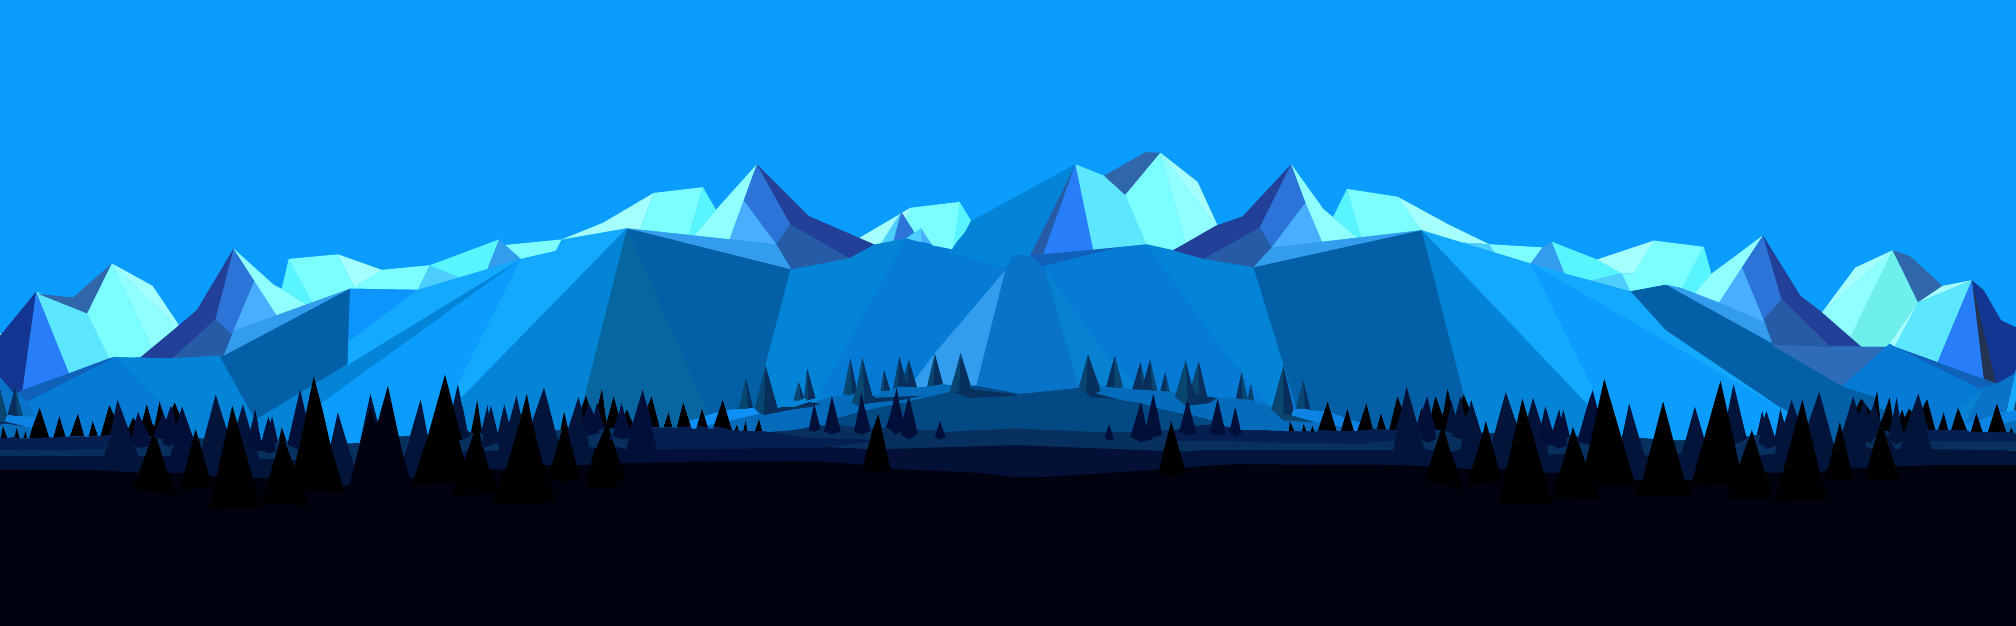
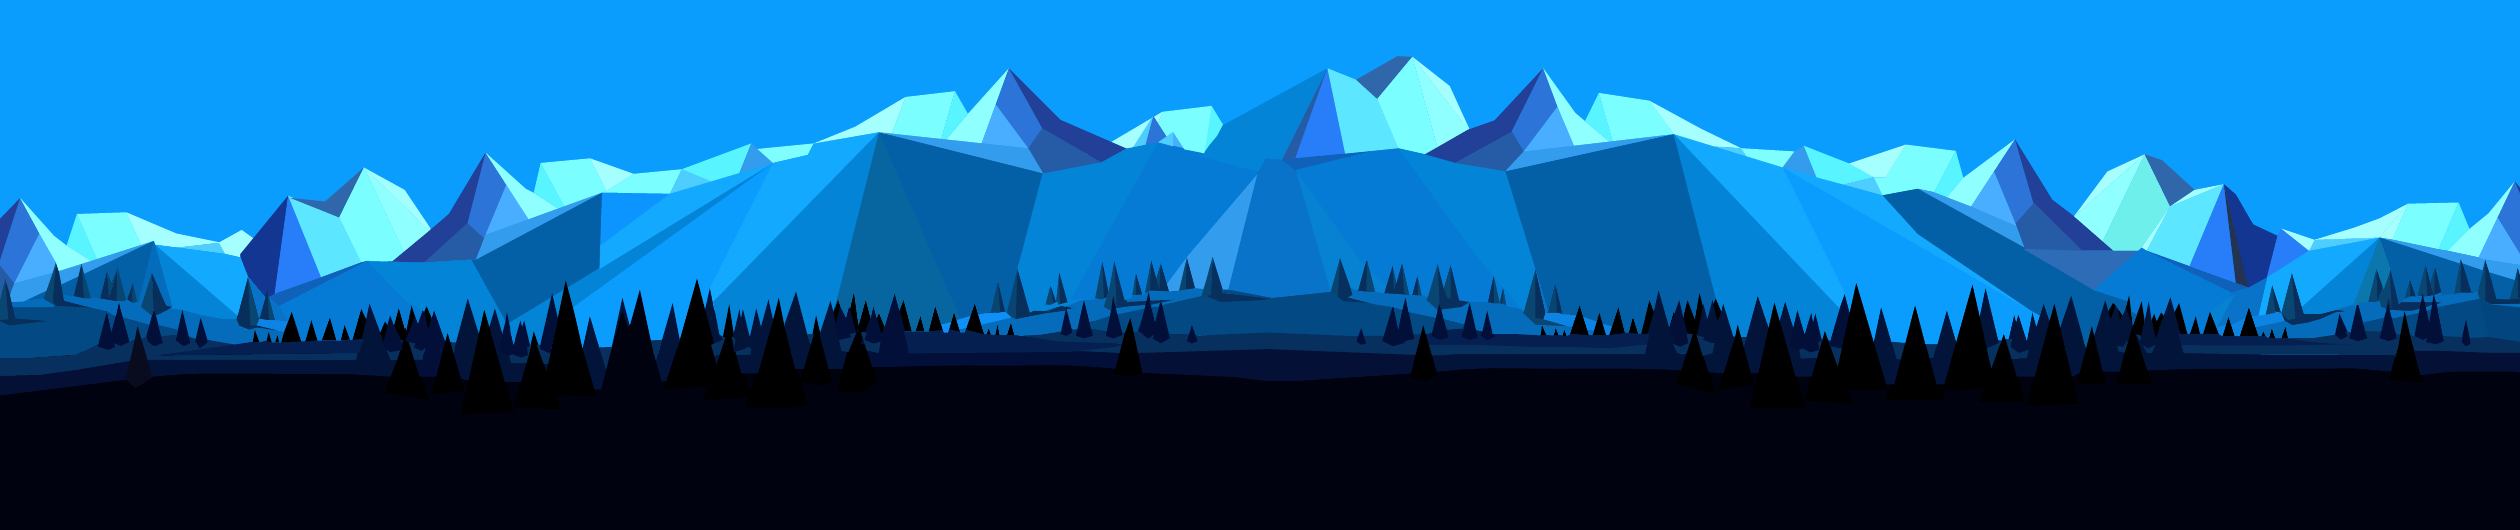
Add files via upload

diff --git a/index.html b/index.html
@@ -7,7 +7,7 @@
 <section class="hero"><div class="backdrop" aria-hidden="true"></div>
 <div class="copy"><img class="logo" src="logo.png" alt="Carl's Squeaky Clean Windows, laveur de vitres" width="360" height="310">
 <h1>Window cleaner in Chamonix</h1><p class="lead">Squeaky clean windows for chalets, apartments, shops and offices in the Chamonix Valley.</p>
-<p class="tag"><img class="strap" src="strapline-fr.png" lang="fr" alt="Laissez entrer la montagne dans votre maison" width="720" height="30" style="display:block;margin:0 auto;width:min(92vw,720px);height:auto"></p><p class="actions"><a class="btn wa" href="https://wa.me/33788273745?text=Bonjour%2C%20I%27d%20like%20a%20free%20quote%20for%20window%20cleaning">WhatsApp me</a><a class="btn" href="tel:+33788273745">Call +33 7 88 27 37 45</a><a class="btn ghost" href="mailto:carldowner@outlook.fr">Email</a></p><p class="small">Free, no-obligation quote by call, text, WhatsApp or email.</p></div>
+<p class="tag"><img class="strap" src="strapline-fr.png" lang="fr" alt="Laissez entrer la montagne dans votre maison" width="640" height="26" style="display:block;margin:0 auto;width:min(92vw,640px);height:auto"></p><p class="actions"><a class="btn wa" href="https://wa.me/33788273745?text=Bonjour%2C%20I%27d%20like%20a%20free%20quote%20for%20window%20cleaning">WhatsApp me</a><a class="btn" href="tel:+33788273745">Call +33 7 88 27 37 45</a><a class="btn ghost" href="mailto:carldowner@outlook.fr">Email</a></p><p class="small">Free, no-obligation quote by call, text, WhatsApp or email.</p></div>
 <div class="frost" aria-hidden="true"></div><div class="squeegee" aria-hidden="true"></div></section>
 <section class="band"><div class="cols"><div><h2>Homes and chalets</h2><p>Studios to large luxury rental chalets, including high windows and Velux.</p><p><a href="services.html">Residential services</a></p></div>
 <div><h2>Shops and offices</h2><p>Keep your premises looking their best, on a regular schedule that suits you.</p><p><a href="services.html">Commercial services</a></p></div>

diff --git a/style.css b/style.css
@@ -42,3 +42,16 @@ footer{padding:2rem clamp(1rem,5vw,4rem);background:var(--navy);color:var(--ice)
 @media (max-width:520px){nav{gap:.4rem .8rem;width:100%;justify-content:space-between}nav a{font-size:.9rem}.top{padding:.7rem 1rem}}
 
 .strap{display:block;margin:0 auto;width:min(92vw,720px);height:auto;filter:drop-shadow(0 2px 6px rgba(4,16,51,.6))}
+
+/* Tighter hero so the mountains show on first view */
+:root{--h:calc(100vw/4.75)}
+.hero{min-height:calc(100vh - 60px);min-height:calc(100svh - 60px);padding:clamp(1rem,3vh,2rem) 1rem calc(var(--h)*.88)}
+.copy{max-width:54rem}
+.logo{width:min(70vw,clamp(120px,calc((100vh - 60px)*.24),340px));width:min(70vw,clamp(120px,calc((100svh - 60px)*.24),340px))}
+.hero h1{font-size:clamp(1.8rem,3.6vw,3rem);margin:.6rem 0 .4rem}
+.hero .lead{max-width:none;font-size:clamp(1rem,1.5vw,1.2rem)}
+.tag{margin:.6rem 0 0}
+.hero .actions{margin:1rem 0 .8rem}
+.hero .small{margin:0}
+.backdrop{height:auto;aspect-ratio:2520/530;background-size:100% 100%}
+@media (max-width:700px){:root{--h:170px}.backdrop{aspect-ratio:auto;height:var(--h);background-size:cover}}
